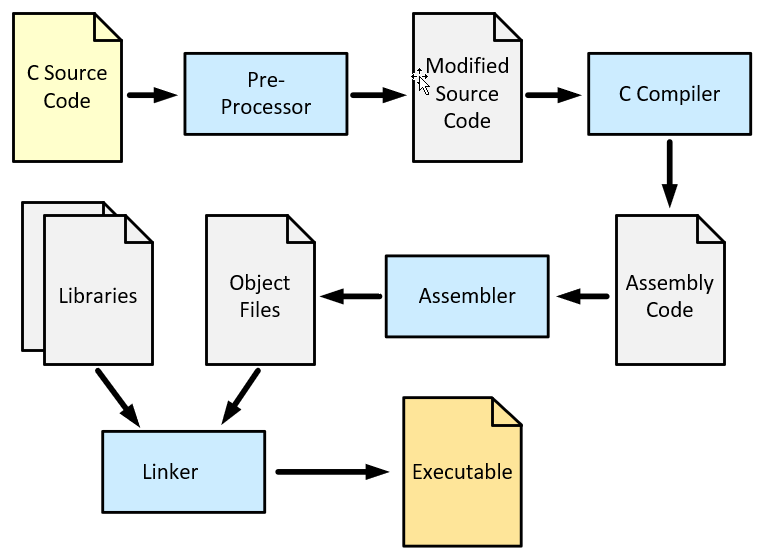
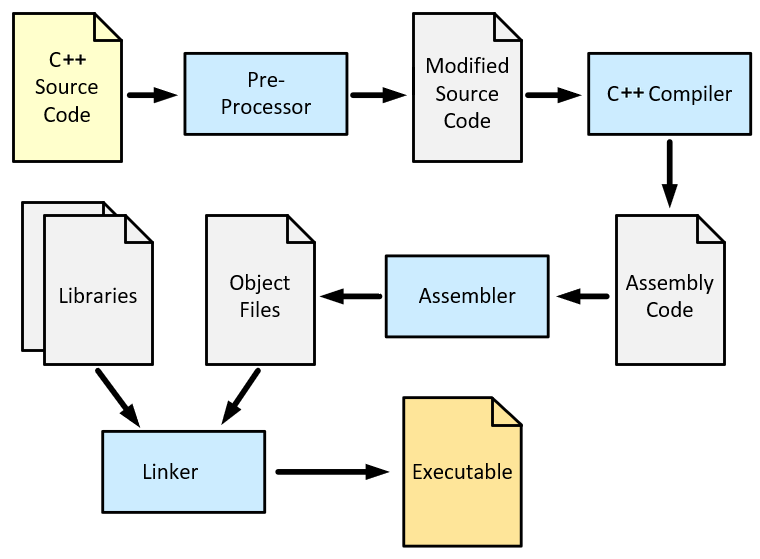
Refactoring.

Changed region(s): [[0.0303, 0.0912, 0.1513, 0.2433], [0.7868, 0.1521, 0.9684, 0.1825], [0.5447, 0.1216, 0.575, 0.1521]]

diff --git a/continuous-integration/build-process/cxx/cross-platform/README.md b/continuous-integration/build-process/cxx/cross-platform/README.md
@@ -11,43 +11,49 @@ A toolchain is a collection of programming tools used to develop software for
 a target system. A cross compiler toolchain specifically allows you to build 
 code on one system (the host) that will run on a different system (the target).
 
-Components of a Toolchain:
+### Components of a Cross Compiler Toolchain
 
-* Compiler (e.g., GCC)
+* **Compiler** (e.g., GCC):
     Converts source code into machine code for the target architecture.
 
-* Assembler
+* **Assembler**: 
     Translates assembly language into target machine instructions.
 
-* Linker
+* **Linker**: 
     Combines object files into executables or libraries for the target.
 
-* C library (e.g., glibc, musl, uClibc)
+* **Libraries** (e.g., glibc, musl, uClibc):
     Provides standard runtime functions (I/O, memory management, etc.) for the target.
 
-* Binutils
+* **Binutils**:
     Includes tools like as (assembler), ld (linker), objdump, readelf, etc.
 
 
 ## Crosstool-NG Framework
 
-crosstool-NG is an open-source framework for building custom cross-compilation toolchains. 
+**Crosstool-NG** is an open-source framework for building custom cross-compilation toolchains. 
 It automates the otherwise tedious process of downloading, configuring, and building all 
 components of a toolchain.
 
 Crosstool-NG provides:
-* Menu-based configuration (like Linux kernel menuconfig) to select:
+
+* **Menu-based configuration** (like Linux kernel menuconfig) to select:
     * Target architecture (ARM, MIPS, RISC-V, etc.)
     * C library (glibc, uClibc, musl)
     * GCC version, binutils version, kernel headers, etc.
 
-* Automatic fetching and building of sources (GCC, binutils, libraries).
-* Reproducibility: You can export and share configuration files.
-* Flexibility: Useful for embedded Linux, bare-metal development, or cross compiling applications.
+* **Automatic fetching and building of sources** (GCC, binutils, libraries).
 
-_Example:_ Build a cross compiler toolchain for a Rspberry Pi 5
+* **Reproducibility**: We can export and share configuration files.
+
+* **Flexibility**: Useful for embedded Linux, bare-metal development, or cross compiling applications.
+
 
 ### 1. Build Crosstool-NG 
+
+Crosstool-NG is already installed in the Virtual Lab (Debian Linux).
+
+If you are using a different environment, install Crosstool-NG as follows:
 
 ```bash
 $ cd Downloads
@@ -79,6 +85,8 @@ There is NO WARRANTY, to the extent permitted by law.
 
 ### 2. Build a Raspberry Pi 5 Toolchain
 
+This Raspberry Pi 5 Toolchain is also in the Virtual Lab (Debian Linux).
+
 ```bash
 $ mkdir -p Downloads/raspi5-toolchain
 $ cd Downloads/raspi5-toolchain
@@ -97,28 +105,27 @@ configurator tool provided by Crosstool-NG.
 $ ct-ng menuconfig
 ```
 
-
 Here is an overview about the generated tool chain:
 
 ```bash
 /opt/x-tools/aarch64-rpi5-linux-gnu
 │
-├── bin/                <-- Cross-compiler frontends you run
+├── bin/                        <-- Cross-compiler frontends you run
 │   ├── aarch64-rpi5-linux-gnu-gcc
 │   ├── aarch64-rpi5-linux-gnu-ld
 │   ├── aarch64-rpi5-linux-gnu-as
 │   └── ...
 │
-├── lib/                <-- Host-side support libs for GCC/binutils
+├── lib/                        <-- Host-side support libs for GCC/binutils
 │   └── libgcc.a, compiler plugins, etc.
 │
-├── libexec/            <-- Internal GCC programs (cc1, collect2...)
+├── libexec/                    <-- Internal GCC programs (cc1, collect2...)
 │
-├── include/            <-- Host headers needed by GCC itself
+├── include/                    <-- Host headers needed by GCC itself
 │
-├── share/              <-- Architecture-independent data (man pages, specs)
+├── share/                      <-- Architecture-independent data (man pages, specs)
 │
-└── aarch64-rpi5-linux-gnu/   <-- Target files system including sysroot 
+└── aarch64-rpi5-linux-gnu/     <-- Target files system including sysroot 
 ```
 
 * **aarch64-rpi5-linux-gnu/** This folder usually mirrors the target **root filesystem** structure.
@@ -131,7 +138,7 @@ Here is an overview about the generated tool chain:
     - aarch64-rpi5-linux-gnu-as
     - aarch64-rpi5-linux-gnu-strip
 
-    This is the directory we add to our $PATH environment variable.
+    This is the directory we add to our `$PATH` environment variable.
 
 * **include/** Host-side include files that the compiler itself needs.
     Mostly headers used by GCC internals and the toolchain runtime, not the target’s headers 
@@ -156,7 +163,7 @@ Notice the separation of **Host vs Target**:
 * **Host-side** stuff (`bin/, lib/, libexec/, include/, share/`): Needed to make the compiler 
     itself work on your PC.
 
-* **Target-side** stuff (`aarch64-rpi5-linux-gnu/`): Mimics the Pi’s filesystem and contains 
+* **Target-side** stuff (`aarch64-rpi5-linux-gnu/`): Mimics the Raspi’s filesystem and contains 
     the target headers & libraries used to build ARM64 binaries.
 
 The **sysroot** is the logical target **root directory** for headers and libraries where gcc 
@@ -224,4 +231,4 @@ Finally, we can transfer `hello` to our Raspberry Pi 5 and run it.
 * [GCC online documentation](https://gcc.gnu.org/onlinedocs/)
 
 
-*Egon Teiniker, 2025, GPL v3.0*
+*Egon Teiniker, 2025-2026, GPL v3.0*

diff --git a/continuous-integration/build-process/cxx/README.md b/continuous-integration/build-process/cxx/README.md
@@ -2,37 +2,26 @@
 
 ## Build Process and Binaries
 
-The build process for C/C++ projects involves several steps to transform 
-source code into an executable binary. This typically includes preprocessing, 
-compiling, assembling, and linking.
+The build process for C++ projects involves several steps to transform 
+source code into an executable binary. 
 
 * [From C/C++ Source Code to the Executable](build-steps/README.md)
-* [C/C++ Compiler](compiler/README.md)
+
+* C/C++ Compiler
+    - [Compiler Flags](compiler/compiler-flags/)
+    - [Compiler Optimization](compiler/compiler-optimization/)
+    - [Compiler Explorer](compiler/compiler-explorer/README.md)
+
 * [Binutils](binutils/README.md)
 
-* Reverse Enineering
-    * [Static Analysis](reverse-engineering/analysis-static/)
-    * [Dynamic Analysis](reverse-engineering/analysis-dynamic/)
-    * [Decompiler](reverse-engineering/analysis-static/Ghidra/README.md)
-
-
-## Build Cross Platform Binaries  
-
-In embedded systems, the build process is more complex due to the need 
-to consider the target hardware platform, cross-compilation, and resource 
-constraints.
-
-* [C/C++ Cross Platform Build using crosstool-NG](cross-platform/README.md)
-
-
-## Build Linux Distributions  
-
-* [Build Linux Distributions using Yocto](yocto/README.md)
-* [Firmware Analysis](reverse-engineering/firmware/)
-
+* [C/C++ Cross Platform Build](cross-platform/README.md)
+    - Demo: [hello](cross-platform/hello/)
+    - Demo: [hello-cmake](cross-platform/hello-cmake/)
+    - Setup: [gtest](cross-platform/gtest/)
+    - Demo: [test-cmake](cross-platform/test-cmake/)
 
 ## References
 
 * [YouTube (The Linux Foundation):Building Bare Metal Toolchains, Crosstool-ng and Yocto Project](https://youtu.be/b0yXASkIIv8?si=tPmf_oFJgk7tPOIk)
 
-*Egon Teiniker, 2025, GPL v3.0*
+*Egon Teiniker, 2025-2026, GPL v3.0*

diff --git a/continuous-integration/build-process/cxx/binutils/README.md b/continuous-integration/build-process/cxx/binutils/README.md
@@ -3,18 +3,22 @@
 **GNU Binutils** (short for *binary utilities*) is a collection of low-level 
 tools for working with object files, libraries, and executables.
 
-They form a core part of any toolchain — whether native (x86\_64 on our PC) 
+They form a core part of any toolchain - whether native (x86\_64 on our PC) 
 or cross (AArch64 for Raspberry Pi).
 
 When you write code in C/C++:
 
 1. **Compiler (GCC/Clang)** turns source into assembly or object code (`.o`).
+
 2. **Assembler (`as`)** converts assembly into machine instructions.
-3. **Linker (`ld`)** combines object files + libraries into the final executable (`a.out`, ELF binary).
+
+3. **Linker (`ld`)** combines object files + libraries into the final executable 
+    (`a.out`, ELF binary).
+
 4. **Binutils tools** (like `objdump`, `nm`) let us inspect/debug those binaries.
 
-The **Binutils = essential low-level binary tools** (assembler, linker, object inspectors)
-sit between the compiler (GCC/Clang) and the final executable.
+The **Binutils = essential low-level binary tools** (assembler, linker, object 
+inspectors) sit between the compiler (GCC/Clang) and the final executable.
 Without binutils, GCC couldn’t produce runnable programs.
 
 
@@ -71,7 +75,7 @@ Here are the most important tools we will encounter:
     _Example:_
 
     ```bash
-    $ $objcopy -O binary hello.elf hello.bin
+    $ objcopy -O binary hello.elf hello.bin
     ```
 
 ### **objdump**
@@ -113,4 +117,4 @@ Here are the most important tools we will encounter:
 * [YouTube (Jacob Sorber): How to Inspect Compiled Binaries (binutils, objdump)](https://youtu.be/bWMIpHVRFUo?si=a39rPSsaZV-F2-yc)
 * [YouTube (LinuxConf): Binutils for fun and profit: understanding Linux binaries](https://youtu.be/htepUJY8nH8?si=E9IzhniADTLLq1aD)
 
-*Egon Teiniker, 2025, GPL v3.0*
+*Egon Teiniker, 2025-2026, GPL v3.0*

diff --git a/continuous-integration/build-process/cxx/cross-platform/gtest/README.md b/continuous-integration/build-process/cxx/cross-platform/gtest/README.md
@@ -6,7 +6,7 @@ it into the toolchain’s sysroot so our projects can find headers/libs when
 cross-building.
 
 ```bash
-$ cd Downloads 
+$ mkdir tmp && cd tmp 
 $ git clone https://github.com/google/googletest.git
 $ cd googletest/
 $ cmake -S . -B build \
@@ -32,4 +32,4 @@ Note that libraries installed under `aarch64-rpi5-linux-gnu/aarch64-rpi5-linux-g
 are found automatically by the cross-compiler.
 
 
-*Egon Teiniker, 2025, GPL v3.0*
+*Egon Teiniker, 2025-2026, GPL v3.0*

diff --git a/continuous-integration/build-process/cxx/build-steps/README.md b/continuous-integration/build-process/cxx/build-steps/README.md
@@ -104,4 +104,4 @@ Note that the steps presented are always carried out, even if the intermediate f
 * K. N. King. **C Programming, A Modern Approach.** W. W. Norton & Company, inc. 2nd Edition 2008. 
     * Chapter 14: The Preprocessor
 
-*Egon Teiniker, 2025, GPL v3.0*
+*Egon Teiniker, 2025-2026, GPL v3.0*

diff --git a/continuous-integration/build-process/cxx/cross-platform/hello-cmake/README.md b/continuous-integration/build-process/cxx/cross-platform/hello-cmake/README.md
@@ -69,4 +69,4 @@ Hello world using CMake!
 
 With this, we have created our first program using a cross compiler.
 
-*Egon Teiniker, 2025, GPL v3.0*
+*Egon Teiniker, 2025-2026, GPL v3.0*

diff --git a/continuous-integration/build-process/cxx/cross-platform/hello/README.md b/continuous-integration/build-process/cxx/cross-platform/hello/README.md
@@ -59,4 +59,4 @@ Hello world!
 
 With this, we have created our first program using a cross compiler.
 
-*Egon Teiniker, 2025, GPL v3.0*
+*Egon Teiniker, 2025-2026, GPL v3.0*

diff --git a/continuous-integration/build-process/cxx/cross-platform/test-cmake/README.md b/continuous-integration/build-process/cxx/cross-platform/test-cmake/README.md
@@ -45,6 +45,6 @@ $ scp build/test student@xxx.xxx.xxx.xxx:/home/student/Downloads
 ```
 
 
-*Egon Teiniker, 2025, GPL v3.0*
+*Egon Teiniker, 2025-2026, GPL v3.0*
 
 
